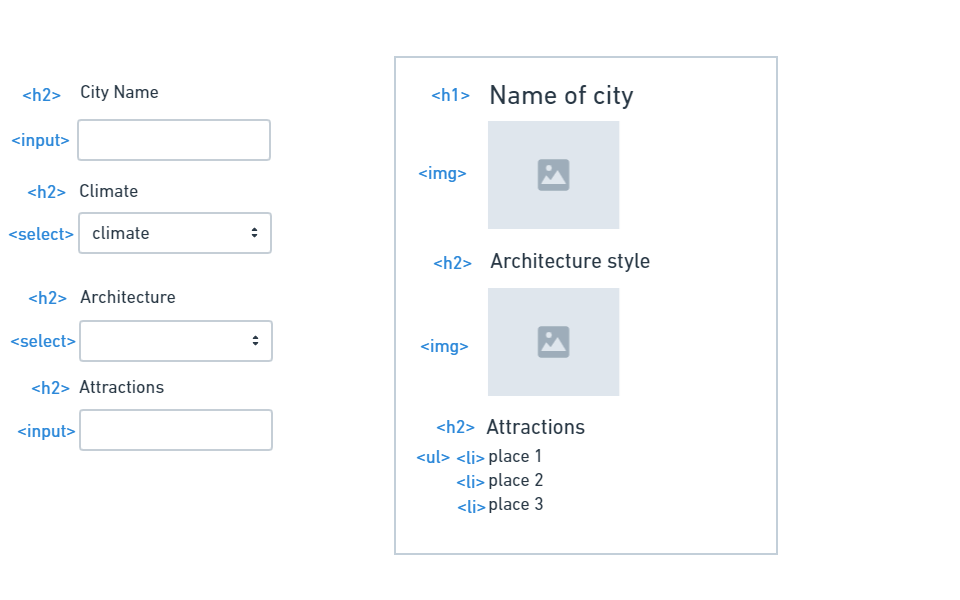
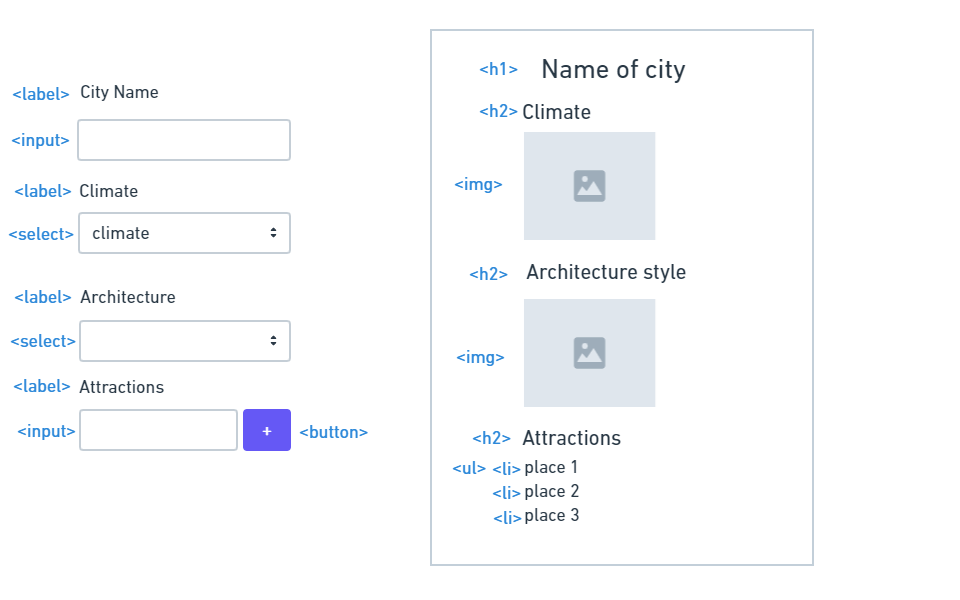
updated wireframe, html basics

diff --git a/index.html b/index.html
@@ -29,6 +29,51 @@
             <h1>Web App</h1>
         </header>
 
-        <main></main>
+        <main>
+            <section>
+                <label>
+                    Name of city
+                    <input id="name-input" value="enter city name" />
+                </label>
+                <label>
+                    Climate
+                    <select id="climate-select">
+                        <option value="coastal">Coastal</option>
+                        <option value="desert">Desert</option>
+                        <option value="pnw">Pacific Northwest</option>
+                        <option value="polar">Polar</option>
+                    </select>
+                </label>
+                <label>
+                    Architecture
+                    <select id="arch-selector">
+                        <option value="islamic">Islamic</option>
+                        <option value="high-tech">High Tech</option>
+                        <option value="sustainable">Sustainable</option>
+                        <option value="byzantine">Byzantine</option>
+                    </select>
+                </label>
+                <label>
+                    Attractions
+                    <div>
+                        <input id="attractions-input" />
+                        <button id="add-attractions">+</button>
+                    </div>
+                </label>
+            </section>
+            <article id="city-design" class="">
+                <h1>Sirius</h1>
+                <h2>Climate</h2>
+                <img id="" width="250px" src="/assets/city-design/coastal-climate.jpg" />
+                <h2>Architecture style</h2>
+                <img id="" width="250px" src="/assets/city-design/byzantine-architecture.jpg" />
+                <h2>Attractions</h2>
+                <ul>
+                    <li>Coastal beaches</li>
+                    <li>Sand Dunes</li>
+                    <li>Forests and mountains</li>
+                </ul>
+            </article>
+        </main>
     </body>
 </html>

diff --git a/README.md b/README.md
@@ -15,7 +15,5 @@ attractions:
         'attraction 2',
         'attraction 3',
     ]
-
-```
-
 }
+```
